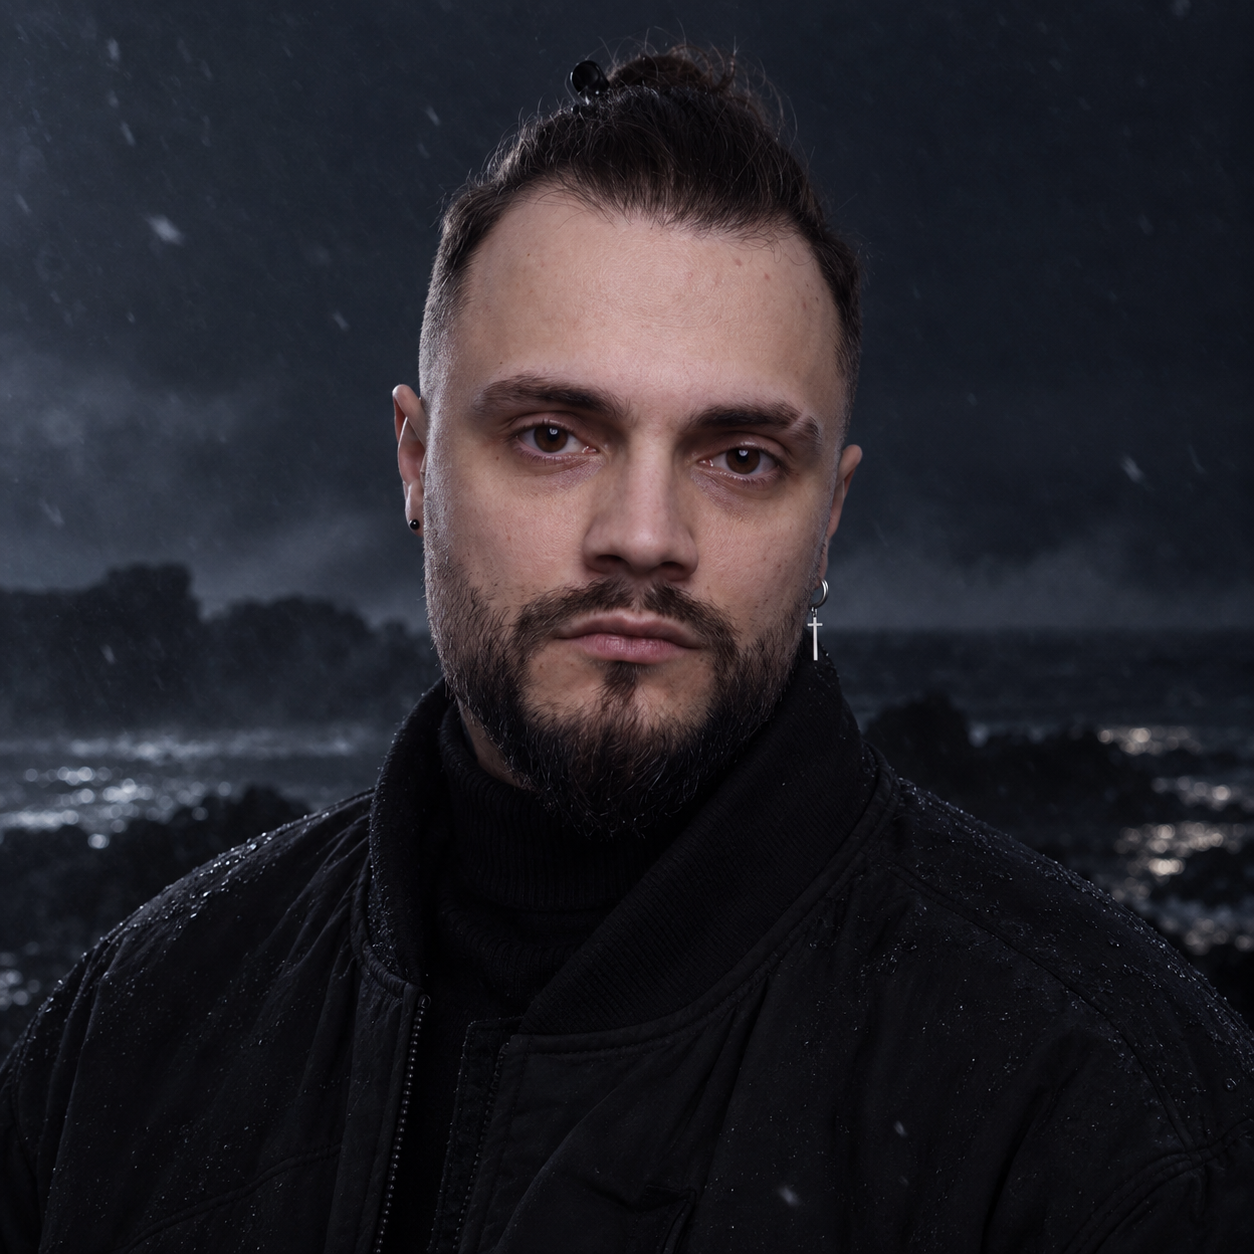
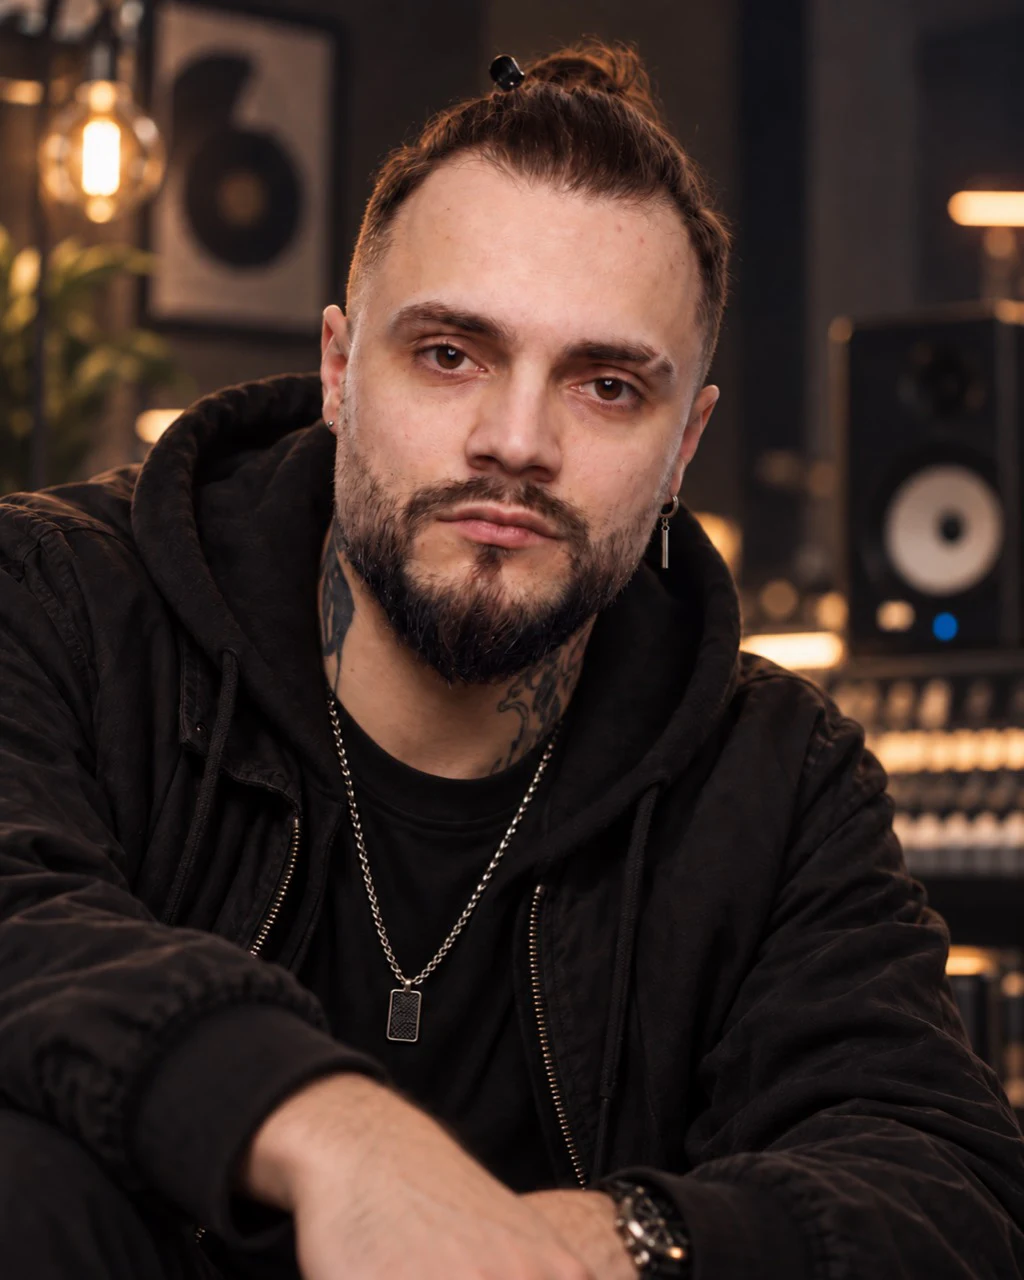
Replace bio portraits with studio photos

diff --git a/index.html b/index.html
@@ -8,7 +8,7 @@
 <meta name="referrer" content="strict-origin-when-cross-origin">
 <link rel="icon" href="assets/favicon.svg" type="image/svg+xml"><link rel="stylesheet" href="src/styles.css?v=20260911-profile"><link rel="stylesheet" href="src/refinement.css?v=20260911-profile"><link rel="stylesheet" href="src/north.css?v=20260911-profile"><link rel="stylesheet" href="src/landscapes.css?v=20260913-booking">
 <script type="application/ld+json">{"@context":"https://schema.org","@type":"MusicGroup","name":"Ver-Dikt & Andy Dav","genre":["Indie dance","Progressive house","Tech house"],"member":[{"@type":"Person","name":"Виталий Ткаченко","alternateName":"Ver-Dikt"},{"@type":"Person","name":"Андрей Долганов","alternateName":"Andy Dav"}],"sameAs":["https://vk.com/verdiktandydav","https://t.me/verdiktandydav","https://www.instagram.com/va.promo/"]}</script>
-<link rel="stylesheet" href="src/polish.css?v=20260913-media"><link rel="stylesheet" href="src/profile.css?v=20260916-equal-video-cards"><link rel="stylesheet" href="src/site-audio.css?v=20260916-sunrise"></head><body>
+<link rel="stylesheet" href="src/polish.css?v=20260913-media"><link rel="stylesheet" href="src/profile.css?v=20260922-studio-portraits"><link rel="stylesheet" href="src/site-audio.css?v=20260916-sunrise"></head><body>
 <a class="skip" href="#music">К музыке</a>
 <header class="header"><a class="north-home" href="#home" aria-label="Ver-Dikt и Andy Dav — главная">69° N <span>MURMANSK</span></a><button class="menu-toggle" aria-label="Открыть меню" aria-controls="nav" aria-expanded="false"><span>Меню</span><svg class="ui-icon" viewBox="0 0 24 24" aria-hidden="true"><path d="M4 7h16M4 12h16M4 17h16"/></svg></button><nav id="nav" aria-label="Основная навигация"><a href="#live">Live</a><a href="#about">О нас</a><a href="#press">Медиа</a><a href="#booking" class="nav-book">Booking</a></nav></header>
 <main>
@@ -22,8 +22,8 @@
 <section class="signal" aria-labelledby="signal-title"><div class="signal-sticky"><div class="signal-copy"><p class="eyebrow">ДВА ХАРАКТЕРА / ОДИН ИМПУЛЬС</p><h2 id="signal-title">Звук<br>обретает<br><em>форму.</em></h2><p>Мощный бас. Северная атмосфера.<br>Энергия, которая соединяет.</p></div><div class="sculpture"><div class="scene-fallback" aria-hidden="true">VΛ</div><canvas id="sculpture" aria-label="Объёмная металлическая скульптура V/A, поворачивающаяся при прокрутке" role="img"></canvas></div><button class="motion-toggle" aria-pressed="false">Остановить анимацию</button></div></section></div>
 <section class="section live-section" id="live"><div class="section-heading"><div><h2>За пределами<br><em>танцпола.</em></h2></div><p class="section-note">Дикие ландшафты Заполярья.<br>Музыка среди северной природы.</p></div><div class="video-grid video-grid-outside" data-videos-outside></div><div class="club-sets"><div class="section-heading club-heading"><div><h2>На<br><em>танцполе.</em></h2></div><p class="section-note">Живая энергия клубной ночи.<br>HHBAR · Мурманск.</p></div><div class="video-grid" data-videos-club></div></div><div class="coord"><div><img class="coord-logo" src="assets/images/coord-logo-transparent.png" alt="COORD — официальный логотип" width="1000" height="278" loading="lazy"></div><div><p>Мы создали Coord, чтобы электронная сцена Севера звучала дальше. DJ-сеты в необычных локациях, клубные трансляции и новые имена — в одном независимом медиапроекте.</p><div class="text-links"><a href="https://t.me/coordmusic" target="_blank" rel="noopener noreferrer">Telegram</a><a href="https://www.youtube.com/@coord1874" target="_blank" rel="noopener noreferrer">YouTube</a><a href="https://vk.ru/coord51" target="_blank" rel="noopener noreferrer">VK</a><a href="https://www.instagram.com/the_coord51/" target="_blank" rel="noopener noreferrer">Instagram*</a></div></div></div></section>
 <section class="section about" id="about"><div class="section-heading"><div><h2>Разные грани.<br><em>Общий ритм.</em></h2></div></div><p class="about-intro">Музыкальный продакшен, DJ-культура и клубная сцена. Мы соединяем их в одном проекте — от первого звука в студии до последнего трека на танцполе.</p><div class="artists">
-<article class="artist"><div class="portrait"><img src="assets/images/verdikt-portrait-2026.webp?v=20260916-moon" alt="Виталий Ткаченко — Ver-Dikt" loading="lazy"><span>01 / ВИТАЛИЙ ТКАЧЕНКО</span></div><h3>Ver-Dikt</h3><p class="artist-role">DJ / PRODUCER / SOUND ENGINEER</p><p>Музыкант, саундпродюсер и звукорежиссёр. Создаёт электронную музыку, преподаёт продакшен и DJ-инг, работает с дизайном и графикой. Его треки звучали на Kiss FM, Radio Record и DFM, попадали в чарты Beatport и Traxsource.</p><div class="text-links"><a href="https://instagram.com/verdiktmusic" target="_blank" rel="noopener noreferrer">Instagram*</a><a href="https://vk.com/ver_dikt" target="_blank" rel="noopener noreferrer">VK</a></div></article>
-<article class="artist"><div class="portrait"><img src="assets/images/andy-portrait-2026.webp?v=20260916-moon" alt="Андрей Долганов — Andy Dav" loading="lazy"><span>02 / АНДРЕЙ ДОЛГАНОВ</span></div><h3>Andy Dav</h3><p class="artist-role">DJ / PROMOTER / ART DIRECTOR</p><p>DJ, промоутер и арт-директор. Отвечает за живую подачу, чувствует аудиторию и создаёт концепции мероприятий. Объединяет артистов и организаторов, развивая электронную сцену в Заполярье и за его пределами.</p><div class="text-links"><a href="https://instagram.com/andydavmusic" target="_blank" rel="noopener noreferrer">Instagram*</a><a href="https://vk.com/andydav" target="_blank" rel="noopener noreferrer">VK</a></div></article></div>
+<article class="artist"><div class="portrait"><img src="assets/images/verdikt-portrait-2026.webp?v=20260922-studio" alt="Виталий Ткаченко — Ver-Dikt" loading="lazy"><span>01 / ВИТАЛИЙ ТКАЧЕНКО</span></div><h3>Ver-Dikt</h3><p class="artist-role">DJ / PRODUCER / SOUND ENGINEER</p><p>Музыкант, саундпродюсер и звукорежиссёр. Создаёт электронную музыку, преподаёт продакшен и DJ-инг, работает с дизайном и графикой. Его треки звучали на Kiss FM, Radio Record и DFM, попадали в чарты Beatport и Traxsource.</p><div class="text-links"><a href="https://instagram.com/verdiktmusic" target="_blank" rel="noopener noreferrer">Instagram*</a><a href="https://vk.com/ver_dikt" target="_blank" rel="noopener noreferrer">VK</a></div></article>
+<article class="artist"><div class="portrait"><img src="assets/images/andy-portrait-2026.webp?v=20260922-studio" alt="Андрей Долганов — Andy Dav" loading="lazy"><span>02 / АНДРЕЙ ДОЛГАНОВ</span></div><h3>Andy Dav</h3><p class="artist-role">DJ / PROMOTER / ART DIRECTOR</p><p>DJ, промоутер и арт-директор. Отвечает за живую подачу, чувствует аудиторию и создаёт концепции мероприятий. Объединяет артистов и организаторов, развивая электронную сцену в Заполярье и за его пределами.</p><div class="text-links"><a href="https://instagram.com/andydavmusic" target="_blank" rel="noopener noreferrer">Instagram*</a><a href="https://vk.com/andydav" target="_blank" rel="noopener noreferrer">VK</a></div></article></div>
 <div class="support"><p class="eyebrow">НАШУ МУЗЫКУ ПОДДЕРЖИВАЛИ</p><p>Don Diablo <span>·</span> Ummet Ozcan <span>·</span> Peter Gelderblom <span>·</span> Micha Moor <span>·</span> Tomo Hirata <span>·</span> Mr. V <span>·</span> Denite <span>·</span> Golf Clap <span>·</span> Fernando Campo <span>·</span> Timmy Trumpet <span>·</span> Shiba San <span>·</span> Skizzo <span>·</span> Amine Edge & Dance <span>·</span> Niki Belucci <span>·</span> Eddy Malano <span>·</span> Vlad Rusu <span>·</span> Pablo Prado <span>·</span> Paco Osuna <span>·</span> Whistla <span>·</span> Futuregroove FM <span>·</span> House FM <span>·</span> Groove Beat FM <span>·</span> Radio FG</p></div><div class="labels"><span>РЕЛИЗЫ НА</span><p>SkyTop / HAUS / 16 OM / Elly Fly / Stress Out / Bassmatic Records / Heartbeat Records / Bunny Tiger / Slow Cycle Records / VSA Recordings / Cafe De Anatolia / Exx Music / Uncles Music / ULTIMA / Emotional Noise / Spring Tube / Stell Recordings / Bonzai Progressive / Prison Entertainment / Ulysse Records / Stereomoon / Carypla / Warbeats / Deep House Ministry / Deep Strips / Crumpled Music / Disco Balls / Three Dot / Dbeatzion Records / Nothing But / Roundell</p></div></section>
 
 <section class="section press" id="press"><div class="section-heading"><div><h2>Всё для<br><em>вашего события.</em></h2></div></div><div class="press-layout"><div class="bio"><h3>О дуэте</h3><p data-bio></p><button class="button" data-copy>Скопировать биографию ↗</button><p class="status" role="status" data-copy-status></p></div><div class="downloads" data-downloads></div></div></section>

diff --git a/src/profile.css b/src/profile.css
@@ -2,7 +2,7 @@
 .music-services .buy-music>div a{border:1px solid #b4d1bd45;padding:7px 16px;border-radius:6px;min-height:42px;font-size:13px}.buy-music>div a:hover{background:#bbd9c41a}
 .proof-strip{grid-template-columns:repeat(4,minmax(0,1fr))}.proof-strip>.metric-card{padding:28px 22px;border:0!important;border-right:1px solid #ffffff16!important}.proof-strip>.metric-card:last-child{border-right:0!important}.proof-strip strong{font-size:clamp(32px,4vw,60px)}.proof-strip>.metric-card>span{font-size:11px;line-height:1.6}
 .coord{grid-template-columns:minmax(220px,.8fr) minmax(0,1.2fr);align-items:center;gap:60px}.coord-logo{width:min(100%,430px);height:auto;display:block;object-fit:contain;filter:drop-shadow(0 12px 30px #0008)}.coord .text-links{display:flex;flex-wrap:wrap;gap:12px;margin-top:24px}.coord .text-links a{border:1px solid #ffffff26;border-radius:8px;padding:10px 15px;background:#ffffff06;min-height:44px;font-size:13px}
-.artists{max-width:1050px;margin-inline:auto;gap:clamp(32px,6vw,90px)}.artist .portrait{width:100%;height:auto;max-width:410px;aspect-ratio:2/3;margin:0 0 28px;background:#091410;border-radius:12px;overflow:hidden}.artist .portrait img{height:100%;width:100%;object-fit:cover;object-position:center;filter:none;transform:none}.artist .portrait>span{display:none}.artist h3{font-size:38px}.artist .text-links{display:flex;flex-wrap:wrap;gap:12px;margin-top:24px}.artist .text-links a{border:1px solid #ffffff28;border-radius:7px;padding:10px 16px;font-size:13px;min-height:44px}.artist .text-links a:hover,.coord .text-links a:hover{background:#ffffff12}
+.artists{max-width:1050px;margin-inline:auto;gap:clamp(32px,6vw,90px)}.artist .portrait{width:100%;height:auto;max-width:410px;aspect-ratio:4/5;margin:0 0 28px;background:#091410;border-radius:12px;overflow:hidden}.artist .portrait img{height:100%;width:100%;object-fit:cover;object-position:center;filter:none;transform:none}.artist .portrait>span{display:none}.artist h3{font-size:38px}.artist .text-links{display:flex;flex-wrap:wrap;gap:12px;margin-top:24px}.artist .text-links a{border:1px solid #ffffff28;border-radius:7px;padding:10px 16px;font-size:13px;min-height:44px}.artist .text-links a:hover,.coord .text-links a:hover{background:#ffffff12}
 .community-grid{display:flex;gap:20px;flex-wrap:wrap}.community-grid a{display:grid;place-items:center;width:88px;height:88px;min-height:88px;padding:0;border:1px solid #ffffff26;border-radius:22px;background:#ffffff05}.community-grid a>.brand-icon{width:36px;height:36px;margin:0;transition:transform .2s}.community-grid a:hover{background:#ffffff10;border-color:#ffffff66}.community-grid a:hover>.brand-icon{transform:scale(1.08)}
 @media(min-width:761px) and (prefers-reduced-motion:no-preference){.signal{height:190svh;overflow:visible}.signal-sticky{position:sticky;top:0;height:100svh;min-height:600px;overflow:hidden;grid-template-columns:.7fr 1.3fr}.sculpture{height:min(70svh,660px)}}
 @media(max-width:760px){.proof-strip{grid-template-columns:repeat(2,minmax(0,1fr))}.proof-strip>.metric-card{padding:24px 16px;border-bottom:1px solid #ffffff16!important}.proof-strip>.metric-card:nth-child(even){border-right:0!important}.proof-strip>.metric-card:nth-last-child(-n+2){border-bottom:0!important}.coord{grid-template-columns:1fr;gap:28px}.coord-logo{max-width:350px}.artists{gap:50px}.artist .portrait{max-width:350px}.community-grid{gap:14px}.community-grid a{width:72px;height:72px;min-height:72px;border-radius:18px}.community-grid a>.brand-icon{width:30px;height:30px}}
